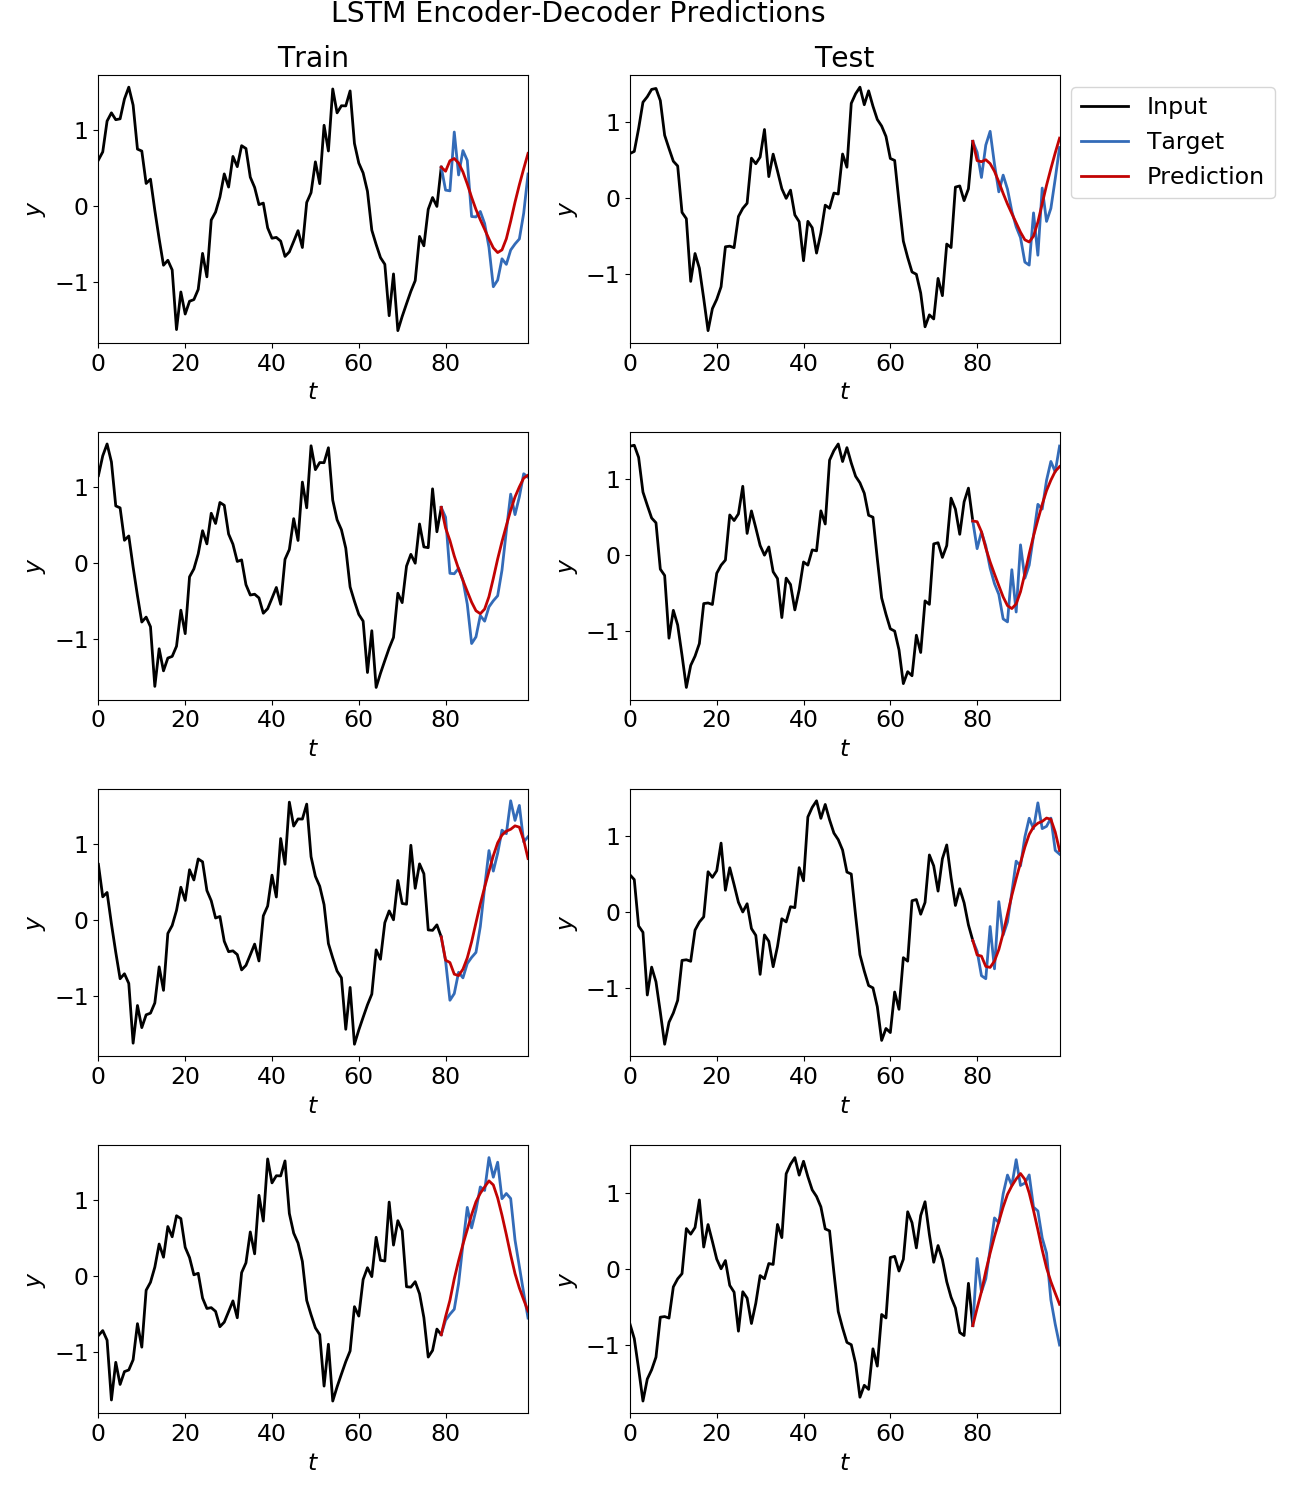
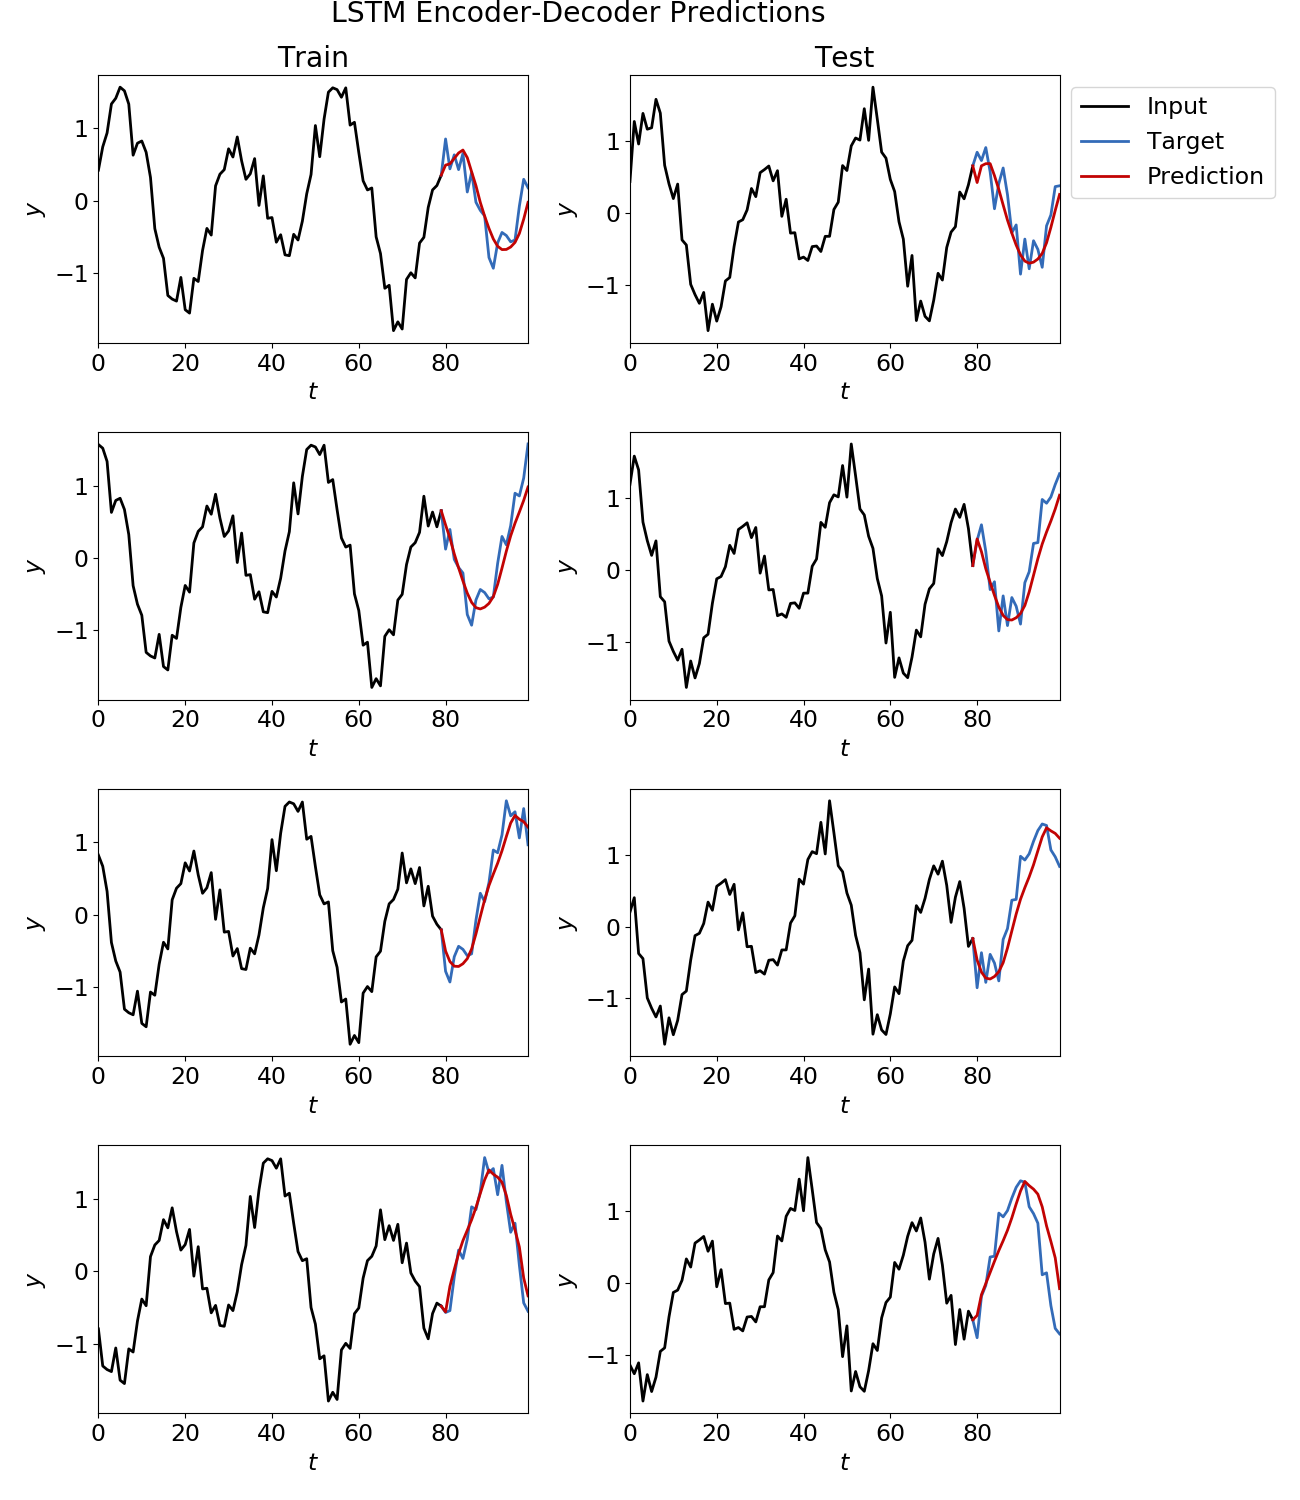
edited training predictions

diff --git a/code/lstm_encoder_decoder.py b/code/lstm_encoder_decoder.py
@@ -114,7 +114,7 @@ class lstm_seq2seq(nn.Module):
         self.decoder = lstm_decoder(input_size = input_size, hidden_size = hidden_size)
 
 
-    def train_model(self, input_tensor, target_tensor, n_epochs, target_len, batch_size, teacher_forcing_ratio, learning_rate = 0.01, dynamic_tf = False):
+    def train_model(self, input_tensor, target_tensor, n_epochs, target_len, batch_size, training_prediction = 'recursive', teacher_forcing_ratio = 0.5, learning_rate = 0.01, dynamic_tf = False):
         
         '''
         train lstm encoder-decoder
@@ -123,21 +123,21 @@ class lstm_seq2seq(nn.Module):
         : param target_tensor:             target data with shape (seq_len, # in batch, number features); PyTorch tensor
         : param n_epochs:                  number of epochs 
         : param target_len:                number of values to predict 
-        : param batch_size:                number of samples per gradient update 
-        : param teacher_forcing_ratio:     float [0, 1) indicating how much teacher forcing;
-        :                                  higher value means more teacher forcing
-        : param learning_rate:             float >= 0; learning rate 
+        : param batch_size:                number of samples per gradient update
+        : param training_prediction:       type of prediction to make during training ('recursive', 'teacher_forcing', or
+        :                                  'mixed_teacher_forcing'); default is 'recursive'
+        : param teacher_forcing_ratio:     float [0, 1) indicating how much teacher forcing to use when
+        :                                  training_prediction = 'teacher_forcing.' For each batch in training, we generate a random
+        :                                  number. If the random number is less than teacher_forcing_ratio ratio, we use teacher forcing.
+        :                                  Otherwise, we predict recursively. If teacher_forcing_ratio = 1, we train only using teacher forcing.
+        : param learning_rate:             float >= 0; learning rate
         : param dynamic_tf:                use dynamic teacher forcing (True/False); dynamic teacher forcing
         :                                  reduces the amount of teacher forcing for each epoch
-        : return losses, losses_tf,
-        :        losses_no_tf:             array of total loss, teacher forcing loss, and no teacher forcing loss for
-        :                                  each epoch     
+        : return losses:                   array of loss function for each epoch
         '''
         
         # initialize array of losses 
         losses = np.full(n_epochs, np.nan)
-        losses_tf = np.full(n_epochs, np.nan)
-        losses_no_tf = np.full(n_epochs, np.nan)
 
         optimizer = optim.Adam(self.parameters(), lr = learning_rate)
         criterion = nn.MSELoss()
@@ -175,55 +175,62 @@ class lstm_seq2seq(nn.Module):
                     decoder_input = input_batch[-1, :, :]   # shape: (batch_size, input_size)
                     decoder_hidden = encoder_hidden
 
-                    use_teacher_forcing = ( random.random() < teacher_forcing_ratio )
-
-                    if use_teacher_forcing:
-                        # teacher forcing: feed the target as the next input
-                        for t in range(target_len): 
-                            decoder_output, decoder_hidden = self.decoder(decoder_input, decoder_hidden)
-                            outputs[t] = decoder_output
-                            decoder_input = target_batch[t, :, :]
-
-                    else:
+                    if training_prediction == 'recursive':
                         # predict recursively
                         for t in range(target_len): 
                             decoder_output, decoder_hidden = self.decoder(decoder_input, decoder_hidden)
                             outputs[t] = decoder_output
                             decoder_input = decoder_output
 
-                    loss = criterion(outputs, target_batch)
+                    if training_prediction == 'teacher_forcing':
+                        # use teacher forcing
+                        if random.random() < teacher_forcing_ratio:
+                            for t in range(target_len): 
+                                decoder_output, decoder_hidden = self.decoder(decoder_input, decoder_hidden)
+                                outputs[t] = decoder_output
+                                decoder_input = target_batch[t, :, :]
 
+                        # predict recursively 
+                        else:
+                            for t in range(target_len): 
+                                decoder_output, decoder_hidden = self.decoder(decoder_input, decoder_hidden)
+                                outputs[t] = decoder_output
+                                decoder_input = decoder_output
+
+                    if training_prediction == 'mixed_teacher_forcing':
+                        # predict using mixed teacher forcing
+                        for t in range(target_len):
+                            decoder_output, decoder_hidden = self.decoder(decoder_input, decoder_hidden)
+                            outputs[t] = decoder_output
+                            
+                            # predict with teacher forcing
+                            if random.random() < teacher_forcing_ratio:
+                                decoder_input = target_batch[t, :, :]
+                            
+                            # predict recursively 
+                            else:
+                                decoder_input = decoder_output
+
+                    # compute the loss 
+                    loss = criterion(outputs, target_batch)
                     batch_loss += loss.item()
                     
-                    if use_teacher_forcing:
-                        num_tf += batch_size
-                        batch_loss_tf += loss.item()
-                    else:
-                        num_no_tf += batch_size
-                        batch_loss_no_tf += loss.item()
-
+                    # backpropagation
                     loss.backward()
-
                     optimizer.step()
 
+                # loss for epoch 
                 batch_loss /= n_batches 
                 losses[it] = batch_loss
 
-                
-                if num_no_tf != 0.: 
-                    batch_loss_no_tf /= num_no_tf
-                    losses_no_tf[it] = batch_loss_no_tf
-                    
-                if num_tf !=0:
-                    batch_loss_tf /= num_tf
-                    losses_tf[it] = batch_loss_tf
-
+                # dynamic teacher forcing
                 if dynamic_tf and teacher_forcing_ratio > 0:
                     teacher_forcing_ratio = teacher_forcing_ratio - 0.02 
-                    
+
+                # progress bar 
                 tr.set_postfix(loss="{0:.3f}".format(batch_loss))
                     
-        return losses, losses_tf, losses_no_tf
+        return losses
 
     def predict(self, input_tensor, target_len):
         

diff --git a/code/example.py b/code/example.py
@@ -78,7 +78,7 @@ X_train, Y_train, X_test, Y_test = generate_dataset.numpy_to_torch(Xtrain, Ytrai
 
 # specify model parameters and train
 model = lstm_encoder_decoder.lstm_seq2seq(input_size = X_train.shape[2], hidden_size = 15)
-loss, loss_tf, loss_no_tf = model.train_model(X_train, Y_train, n_epochs = 50, target_len = ow, batch_size = 5, teacher_forcing_ratio = 0.5, learning_rate = 0.01, dynamic_tf = False)
+loss = model.train_model(X_train, Y_train, n_epochs = 50, target_len = ow, batch_size = 5, training_prediction = 'mixed_teacher_forcing', teacher_forcing_ratio = 0.5, learning_rate = 0.01, dynamic_tf = False)
 
 # plot predictions on train/test data
 plotting.plot_train_test_results(model, Xtrain, Ytrain, Xtest, Ytest)

diff --git a/README.md b/README.md
@@ -84,9 +84,10 @@ Now, let's evaluate our model performance. We build a LSTM encoder-decoder that 
 
 ```
 model = lstm_encoder_decoder.lstm_seq2seq(input_size = X_train.shape[2], hidden_size = 15)
-  
-model.train_model(X_train, Y_train, n_epochs = 50, target_len = 20, batch_size = 5, 
-                  teacher_forcing_ratio = 0.5, learning_rate = 0.01, dynamic_tf = False)
+
+loss = model.train_model(X_train, Y_train, n_epochs = 50, target_len = ow, batch_size = 5, 
+                         training_prediction = 'mixed_teacher_forcing', teacher_forcing_ratio = 0.5, 
+                         learning_rate = 0.01, dynamic_tf = False)
 ```
 
 We have plotted a few examples of our model for the train and test data.  
